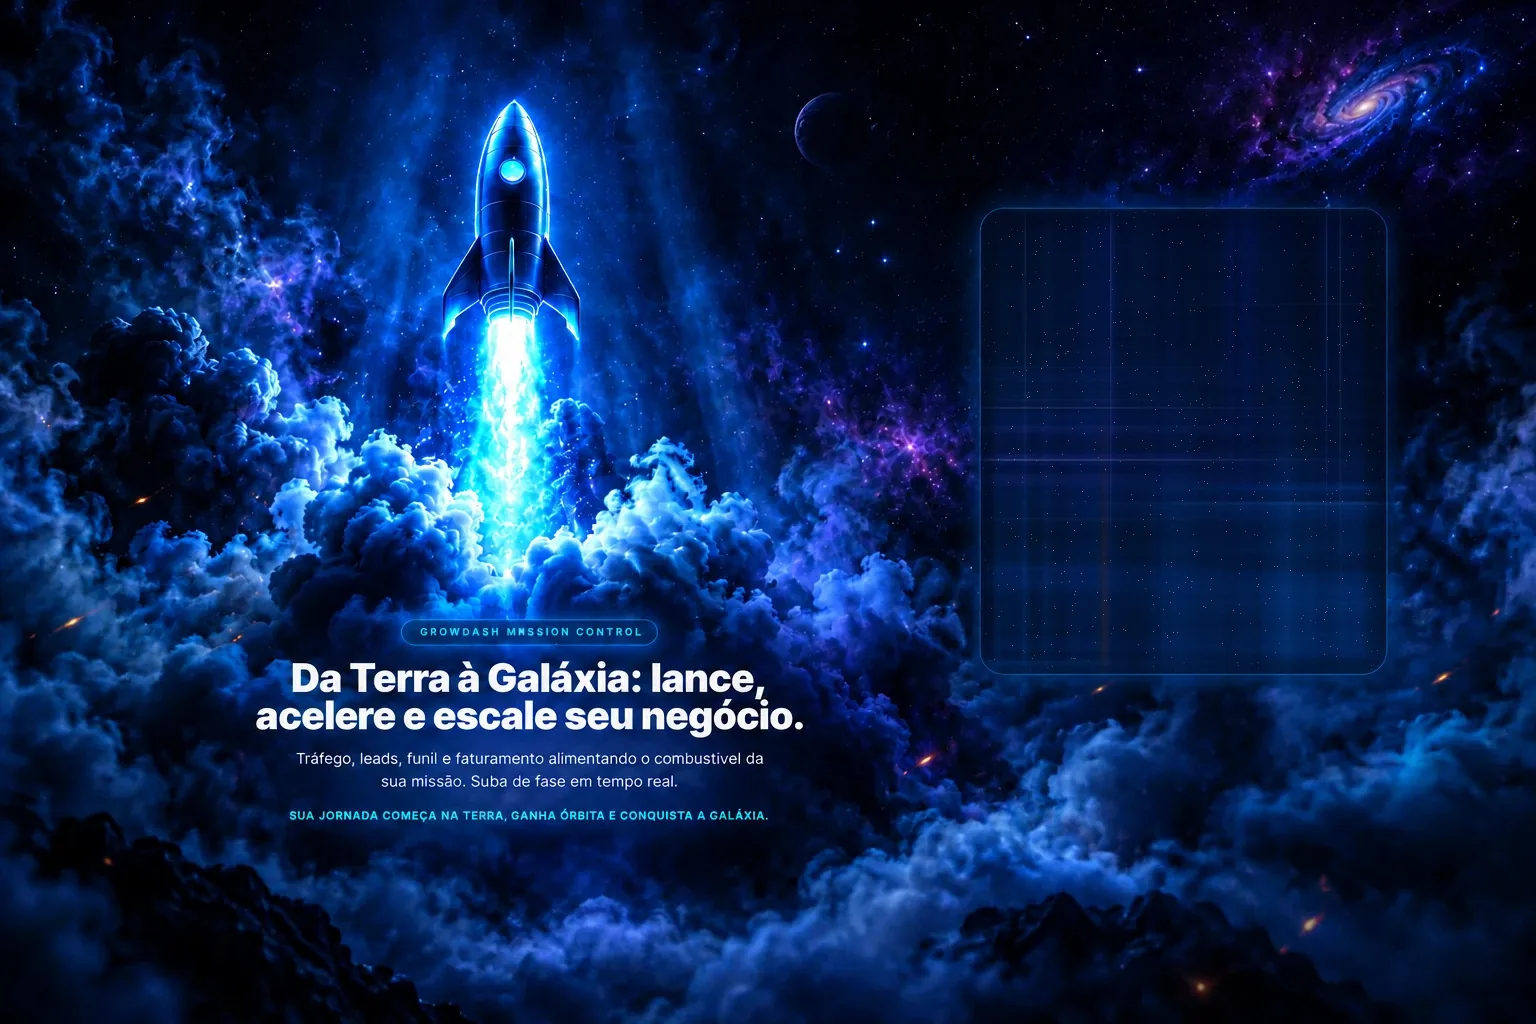
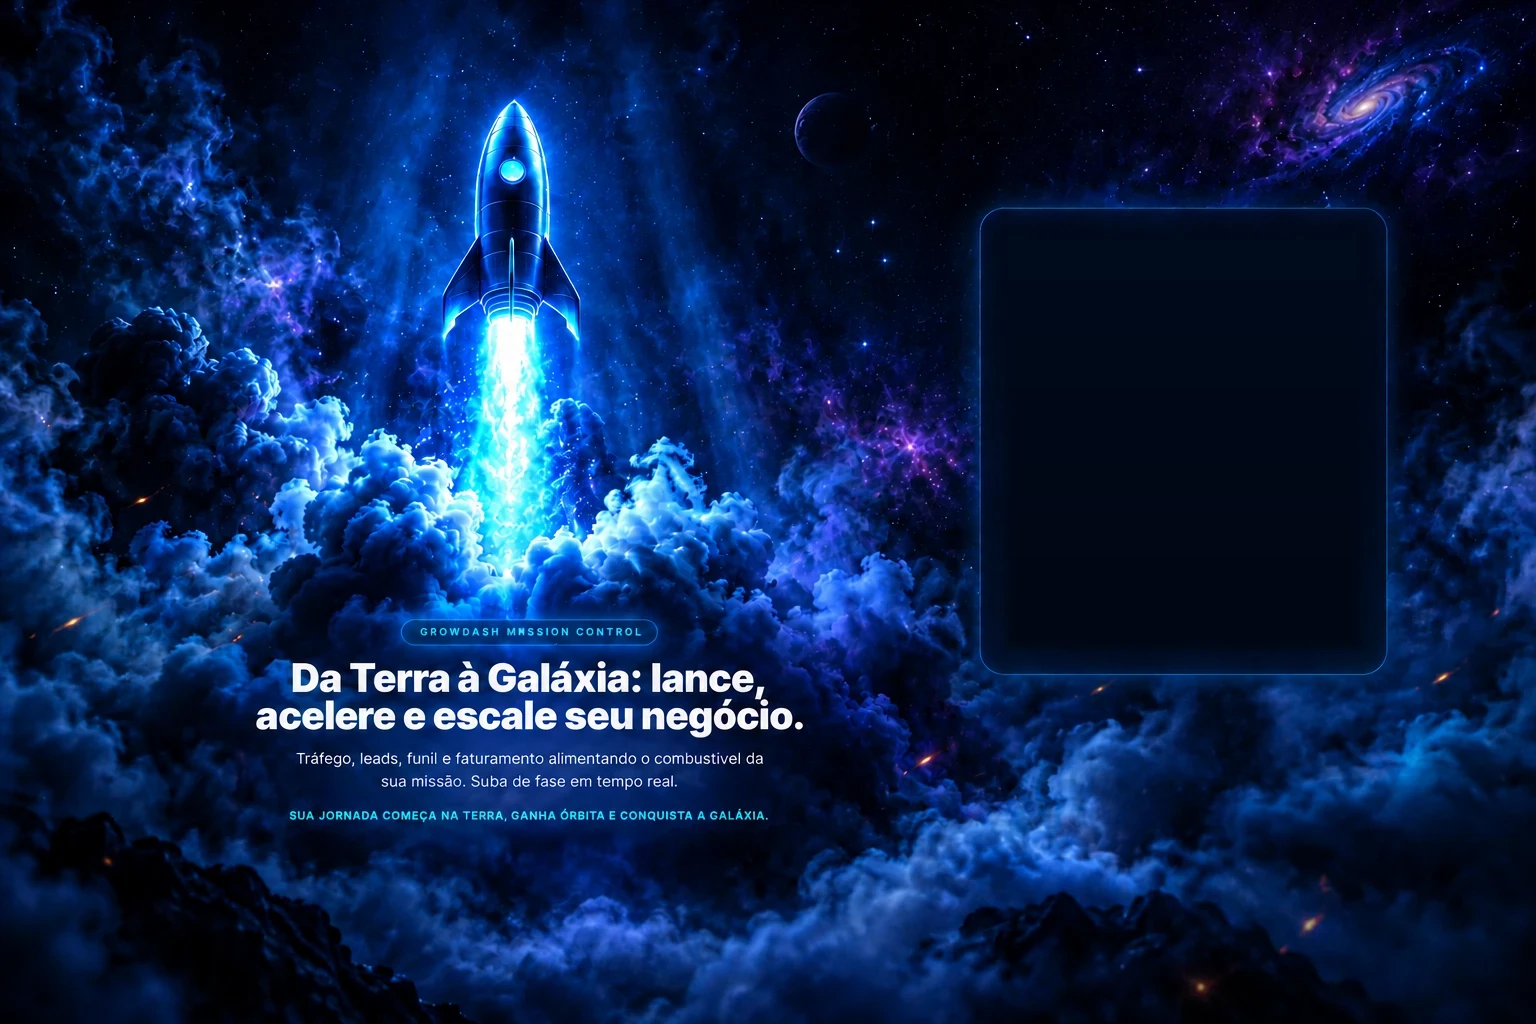
fix(auth): mantém o formulário dentro da moldura cósmica em qualquer resolução
Unifica o fundo e o card no mesmo container de proporção fixa, escala a
interface com container queries e reposiciona o painel por coordenadas da arte.
O interior do card embutido foi limpo preservando a moldura e o formulário
real segue intacto.

Changed region(s): [[0.625, 0.2188, 0.9062, 0.6562]]

diff --git a/src/index.css b/src/index.css
@@ -15956,34 +15956,30 @@ html[data-space-phase="terra"],
   padding: 24px;
 }
 
-/* A arte cósmica cobre o contêiner com o mesmo aspecto da imagem original
-   (1536x1024) e o card de acesso fica sobreposto nas coordenadas exatas onde
-   a composição reserva espaço: o quadrante superior direito. */
-.auth-cosmic-scene-bg {
-  background-size: cover;
-  background-position: center center;
-  background-repeat: no-repeat;
-}
-
+/* A arte cósmica e o card de acesso vivem no mesmo contêiner, com o mesmo
+   aspecto da composição original (1536x1024). Assim as porcentagens do card
+   correspondem exatamente às coordenadas da arte e o formulário nunca sai
+   do quadro, em qualquer tamanho de janela. */
 .auth-cosmic-container {
   position: relative;
   z-index: 2;
+  container-type: inline-size;
   width: min(100%, calc((100svh - 48px) * 1.5));
   aspect-ratio: 1536 / 1024;
-  display: grid;
-  grid-template-columns: minmax(0, 1.25fr) minmax(400px, 470px);
-  align-items: start;
-  gap: clamp(24px, 4vw, 64px);
+  max-height: calc(100svh - 48px);
+  background-size: 100% 100%;
+  background-position: center center;
+  background-repeat: no-repeat;
+  border-radius: 22px;
+  overflow: hidden;
 }
 
-@media (min-width: 981px) {
-  .auth-cosmic-right-panel {
-    position: absolute;
-    left: 63%;
-    top: 19%;
-    width: clamp(320px, 27%, 406px);
-    z-index: 10;
-  }
+.auth-cosmic-right-panel {
+  position: absolute;
+  top: 20.3%;
+  left: 63.7%;
+  width: 26.7%;
+  z-index: 10;
 }
 
 @media (max-width: 980px) {
@@ -15991,13 +15987,10 @@ html[data-space-phase="terra"],
     width: 100%;
     max-width: 540px;
     aspect-ratio: auto;
-    grid-template-columns: 1fr;
-    gap: 32px;
-  }
-
-  .auth-cosmic-scene-bg {
-    background-image: none;
+    max-height: none;
+    background-image: none !important;
     background: radial-gradient(circle at 50% 22%, #06173a 0%, #02091c 45%, #01030c 85%, #000206 100%);
+    overflow: visible;
   }
 }
 
@@ -16125,25 +16118,52 @@ html[data-space-phase="terra"],
   width: 100%;
 }
 
+@media (min-width: 981px) {
+  .auth-cosmic-right-panel {
+    position: absolute;
+    top: 20.3%;
+    left: 63.7%;
+    width: 26.7%;
+  }
+}
+
 .auth-card-docked {
   width: 100%;
-  max-width: 440px;
-  padding: clamp(28px, 3.5vw, 42px);
-  border-radius: 26px;
-  background: rgba(6, 12, 28, 0.85);
-  border: 1px solid rgba(56, 189, 248, 0.45);
-  box-shadow: 0 25px 70px -10px rgba(0, 0, 0, 0.95), 0 0 45px -5px rgba(0, 140, 255, 0.45), inset 0 1px 0 rgba(255, 255, 255, 0.2);
-  backdrop-filter: blur(20px);
-  -webkit-backdrop-filter: blur(20px);
+  max-width: none;
+  padding: clamp(14px, 1.55cqw, 30px);
+  border-radius: 22px;
+  background: rgba(4, 10, 24, 0.55);
+  border: 1px solid rgba(56, 189, 248, 0.28);
+  box-shadow: 0 18px 50px -12px rgba(0, 0, 0, 0.85), inset 0 1px 0 rgba(255, 255, 255, 0.1);
+  backdrop-filter: blur(12px);
+  -webkit-backdrop-filter: blur(12px);
   transition: opacity 0.6s ease, transform 0.6s ease;
 }
 
+/* O formulário escala com a largura do container para caber sempre dentro da
+   moldura de vidro da composição, sem estourar as bordas. */
+.auth-card-docked h1 {
+  font-size: clamp(19px, 1.72cqw, 30px);
+}
+
+.auth-card-docked .text-xs {
+  font-size: clamp(9px, 0.76cqw, 12px);
+}
+
+.auth-card-docked .auth-input-group > span {
+  font-size: clamp(10px, 0.86cqw, 13px);
+}
+
+.auth-card-docked .auth-input-premium input {
+  font-size: clamp(12px, 0.95cqw, 15px) !important;
+}
+
 .auth-card-docked .auth-submit-button {
-  height: 52px !important;
+  height: clamp(38px, 2.9cqw, 52px) !important;
   border-radius: 12px !important;
   background: linear-gradient(180deg, #ffffff 0%, #e2e8f0 100%) !important;
   color: #09090b !important;
-  font-size: 15px !important;
+  font-size: clamp(12px, 1.05cqw, 16px) !important;
   font-weight: 800 !important;
   border: 1px solid rgba(255, 255, 255, 0.9) !important;
   box-shadow: 0 4px 20px rgba(0, 0, 0, 0.4), 0 0 25px rgba(255, 255, 255, 0.35), inset 0 1px 0 #ffffff !important;
@@ -16157,7 +16177,7 @@ html[data-space-phase="terra"],
 }
 
 .auth-card-docked .auth-input-premium {
-  height: 52px !important;
+  height: clamp(38px, 2.9cqw, 52px) !important;
   border-radius: 12px !important;
   background: rgba(3, 7, 18, 0.75) !important;
   border-color: rgba(56, 189, 248, 0.25) !important;

diff --git a/src/pages/Auth.tsx b/src/pages/Auth.tsx
@@ -121,13 +121,11 @@ export default function Auth() {
   }
 
   return (
-    <main
-      className="auth-cosmic-viewport auth-cosmic-scene-bg"
-      style={{
-        backgroundImage: `url(${authCosmicScene})`,
-      }}
-    >
-      <div className="auth-cosmic-container">
+    <main className="auth-cosmic-viewport">
+      <div
+        className="auth-cosmic-container"
+        style={{ backgroundImage: `url(${authCosmicScene})` }}
+      >
         {/* COLUNA ESQUERDA: a arte cósmica com o foguete e a copy da missão já vivem
             no fundo de tela cheia com alta fidelidade. O texto permanece no DOM como
             camada acessível (sr-only no desktop e legível em leitores de tela). */}
